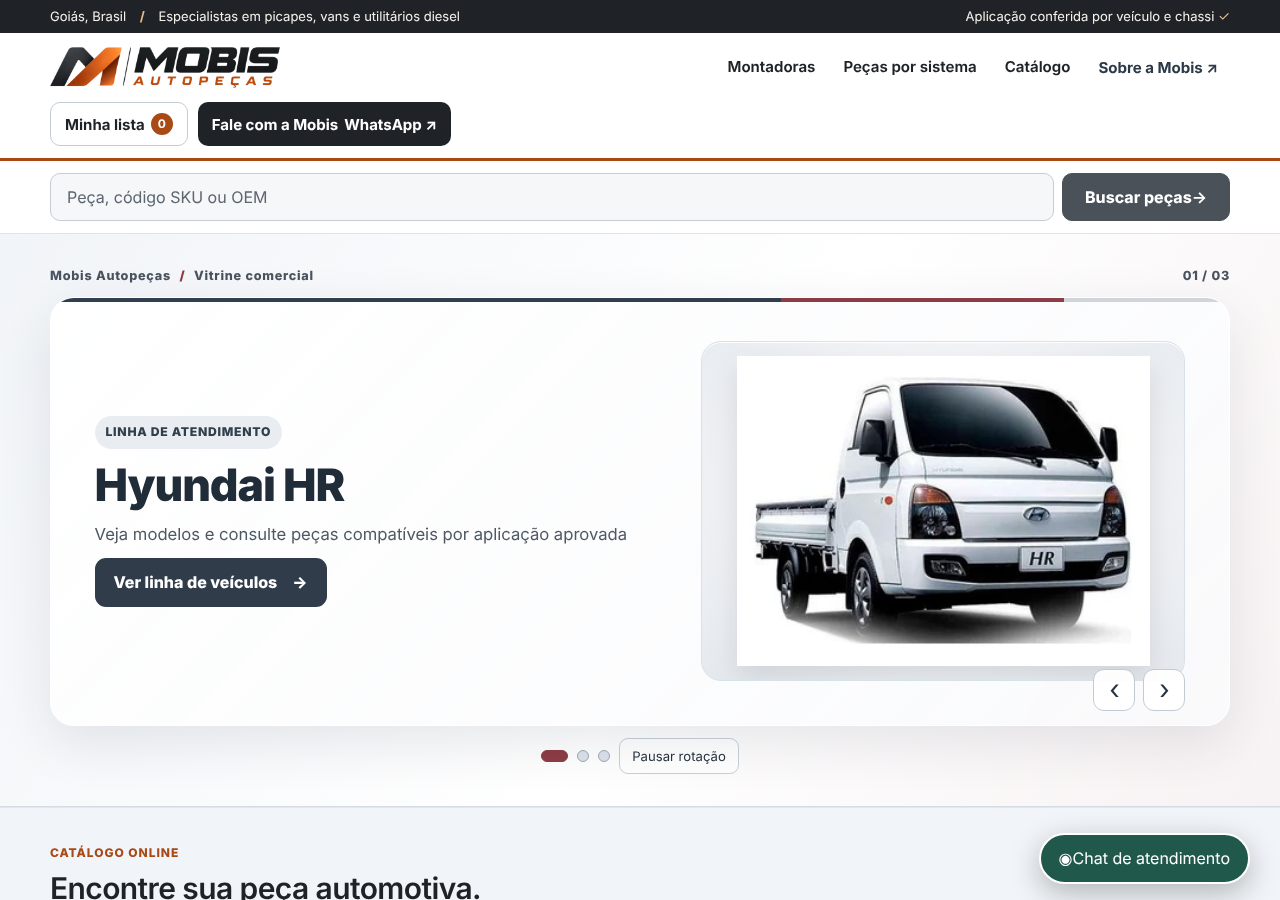
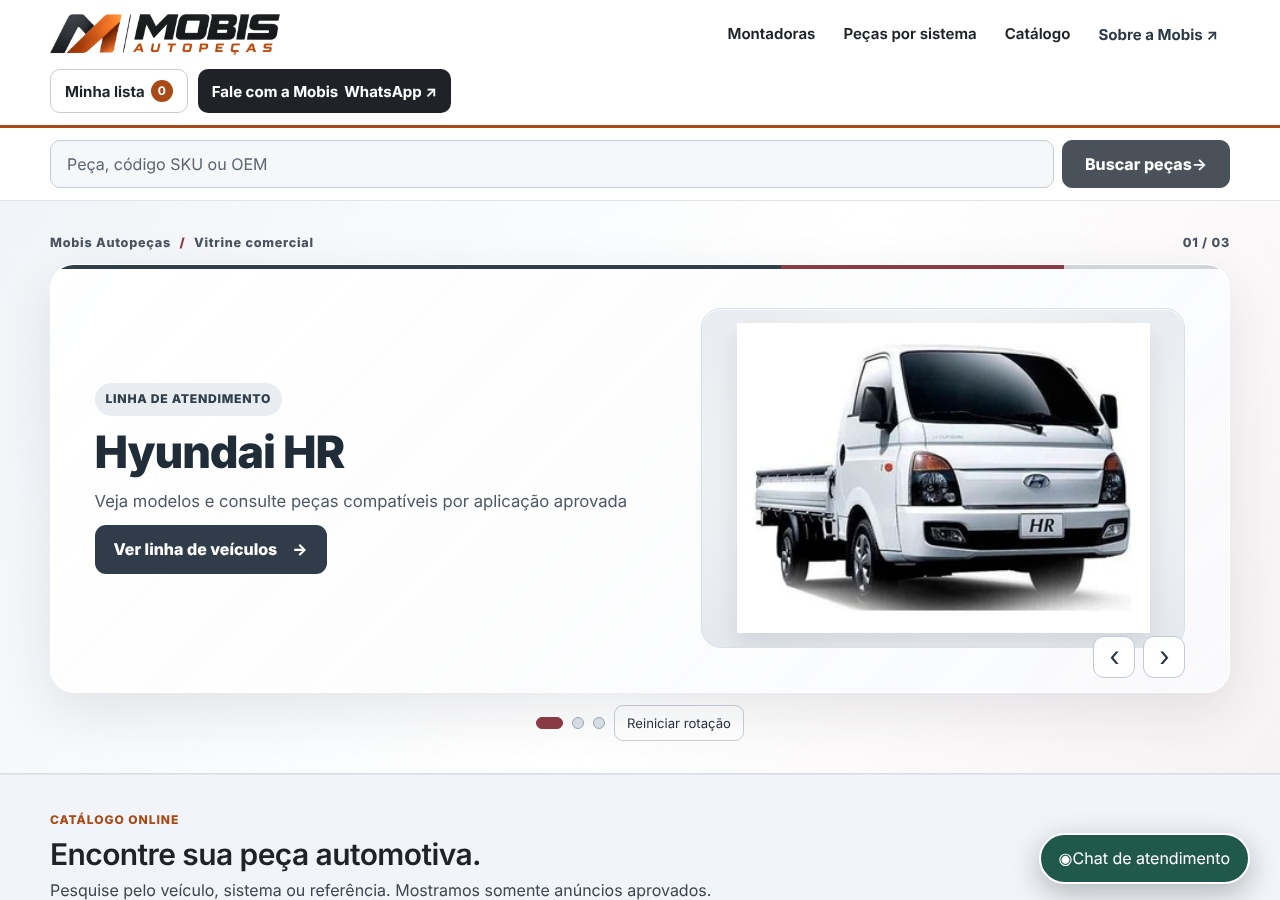
feat(vitrine-mobis): rodapé enxuto e informações institucionais em página própria
- Rodapé Mobis reduzido a navegação, WhatsApp e direitos; textos de políticas e identificação saem da vitrine.
- Nova aba 'Como consultar' em 'Sobre, contato e localização' com as regras de consulta.
- Remove micro-faixa institucional e texto longo acima do catálogo; cada bloco mantém título e subtítulo.
- Cartões de produto com uma linha de orientação.
- Rodapé genérico (RodapeLoja) de outras lojas permanece inalterado.

Claude-Session: https://claude.ai/code/session_01YDBbaxa8dct6ByfYepcxm1

diff --git a/painel/src/paginas/LojaMobisNova.tsx b/painel/src/paginas/LojaMobisNova.tsx
@@ -2,7 +2,8 @@ import { Fragment, useEffect, useMemo, useState, type CSSProperties, type FormEv
 import { EmpresaMobis } from "../componentes/EmpresaMobis.tsx";
 import { SUPABASE_URL, SUPABASE_CHAVE_PUBLICAVEL } from "../config.ts";
 import { IconePeca } from "../componentes/IconePeca.tsx";
-import { RodapeLoja, type PoliticasLojaPublicas } from "../componentes/RodapeLoja.tsx";
+import { RodapeMobisEnxuto } from "../componentes/RodapeMobisEnxuto.tsx";
+import type { PoliticasLojaPublicas } from "../componentes/RodapeLoja.tsx";
 import { ChatClienteLoja } from "../componentes/ChatClienteLoja.tsx";
 import { linkWhatsAppPublico } from "../lib/publicoLoja.ts";
 import { BlocoMontadorasMobis, BlocoTaxonomiaMobis } from "../componentes/BlocosCatalogoMobis.tsx";
@@ -228,21 +229,19 @@ export function LojaMobisNova({slug,contexto}:{slug:string;contexto?:{tipo:"veic
                 </div>
               : p.descricao&&<p>{p.descricao.slice(0,105)}</p>}
             <strong>Preço sob consulta</strong>
-            <p>Catálogo · aplicação, preço e disponibilidade confirmados pela equipe.</p>
+            <p>Confirme aplicação e disponibilidade.</p>
             <div>{p.whatsapp&&<a href={p.whatsapp} target="_blank" rel="noopener noreferrer">Consultar no WhatsApp ↗</a>}
               {!p.consulta_previa&&<a href={"#/p/mobis/"+encodeURIComponent(p.sku)} target="_blank" rel="noopener noreferrer">Abrir ficha em nova aba ↗</a>}
               <button disabled={lista.some(x=>x.sku===p.sku)} onClick={()=>adicionar(p)}>{lista.some(x=>x.sku===p.sku)?"Na lista":"Adicionar à lista +"}</button></div>
           </div>
         </article>)}</div>}
         {dados&&paginas>1&&<nav className="m2-paginas" aria-label="Páginas de produtos"><button disabled={f.pagina<=1} onClick={()=>setF({...f,pagina:f.pagina-1})}>Anterior</button><span>{f.pagina} / {paginas}</span><button disabled={f.pagina>=paginas} onClick={()=>setF({...f,pagina:f.pagina+1})}>Próxima</button></nav>}
-        <p className="m2-legenda">Preços, aplicação e disponibilidade devem ser confirmados antes da compra. A lista não reserva estoque nem cria pedido.</p>
       </section>
     </>,
     empresa: null,
   };
   return <div className="mobis-v2 m4" id="m2-topo" data-mobis-layout="aprovado-v2" data-layout-versionado="true" data-mobis-palette="branco-gelo" data-mobis-visual="claro-v4" data-paleta-publicada={coresPublicas?"sim":"nao"} style={coresPublicas?variaveisPaletaMobis(coresPublicas) as CSSProperties:undefined}>
     <div data-bloco="cabecalho">
-    <div className="m2-micro"><div className="m2-wrap"><span>Goiás, Brasil <b>/</b> Especialistas em picapes, vans e utilitários diesel</span><span>Aplicação conferida por veículo e chassi <em>✓</em></span></div></div>
     <header className="m2-header"><div className="m2-wrap">
       <a className="m2-brand" href="#/loja/mobis" aria-label="MOBIS Autopeças - início" onClick={()=>window.scrollTo({top:0,behavior:"smooth"})}>
         <img src={logoMobis} width={720} height={128} alt="MOBIS Autopeças"/>
@@ -267,19 +266,19 @@ export function LojaMobisNova({slug,contexto}:{slug:string;contexto?:{tipo:"veic
       <section id="m2-atendimento" className="m2-atendimento">
         {consultaModelo&&<div className="m2-wrap"><p className="m4-consulta-aviso" role="status">Para {consultaModelo}, ainda não há aplicação homologada nesta lista. Nossa equipe pode consultar a referência e confirmar a peça pelo chassi.</p></div>}
         <div className="m2-wrap m2-atendimento-grid">
-        <div><span className="m2-kicker">CONVERSA DIGITAL · ESCOLHA COM CUIDADO</span><h2>Vamos encontrar a sua peça.</h2><p>Um mesmo modelo pode usar peças diferentes conforme motor, ano e versão. Envie essas informações para uma consulta mais precisa.</p><div className="m2-conselho">✓ A equipe confere os detalhes antes de você comprar.</div></div>
+        <div><span className="m2-kicker">ATENDIMENTO</span><h2>Vamos encontrar a sua peça.</h2><p>Um mesmo modelo pode usar peças diferentes conforme motor, ano e versão.</p><a href="#/loja/mobis/empresa">Como consultar ↗</a></div>
         <div className="m2-contato-form"><small>CONSULTA DE PEÇAS</small><h3>Conte o que você procura</h3><p>Use os filtros acima ou monte sua lista para compartilhar com o atendimento.</p><button onClick={()=>para("m2-lista")}>Minha lista de peças ({lista.length})</button>{whatsapp&&<a href={whatsapp} target="_blank" rel="noopener noreferrer">Continuar no WhatsApp ↗</a>}<small>Você poderá revisar a mensagem antes de enviá-la.</small></div>
       </div></section>
       <section className="m2-wrap m2-secao m2-lista" id="m2-lista" aria-label="Lista de consulta">
-        <div className="m2-cab-secao"><div><span className="m2-kicker">CONSULTA, NÃO PEDIDO</span><h2>Minha lista de peças</h2></div><span>{lista.length}/10</span></div>
+        <div className="m2-cab-secao"><div><span className="m2-kicker">CONSULTA, NÃO PEDIDO</span><h2>Minha lista de peças</h2><p>Monte até 10 peças e envie para a equipe confirmar.</p></div><span>{lista.length}/10</span></div>
         {aviso&&<p role="status">{aviso}</p>}
         {lista.length===0?<p>Nenhuma peça selecionada. Utilize os botões do catálogo.</p>:<ul>{lista.map(x=><li key={x.sku}><span>{x.nome}<small>SKU: {x.sku}</small></span><button onClick={()=>setLista(v=>v.filter(p=>p.sku!==x.sku))}>Retirar</button></li>)}</ul>}
         {lista.length>0&&<div>{whatsapp&&<a href={whatsapp} target="_blank" rel="noopener noreferrer">Consultar no WhatsApp ↗</a>}<button onClick={()=>{setLista([]);setAviso("")}}>Limpar lista</button></div>}
-        <p>Não informe CPF, chassi completo, senha ou dados bancários no chat. A lista é só consulta e não conclui compra.</p>
+        <p className="m2-legenda">Não envie CPF, chassi completo ou dados bancários. <a href="#/loja/mobis/empresa">Como consultar</a></p>
       </section>
       </>}
     </main>
-    <RodapeLoja nome={dados?.loja.nome??"Mobis Autopeças"} slug="mobis" whatsapp={dados?.loja.whatsapp} politicas={dados?.politicas} ultima={dados?.produtos.map(x=>x.atualizado_em).filter(Boolean).sort().at(-1)} secoes={{catalogo:"m2-catalogo",veiculo:"m2-montadoras",categoria:"m2-taxonomia"}}/>
+    <RodapeMobisEnxuto nome={dados?.loja.nome??"Mobis Autopeças"} whatsapp={dados?.loja.whatsapp}/>
     <ChatClienteLoja nome={dados?.loja.nome??"Mobis Autopeças"} whatsapp={dados?.loja.whatsapp}/>
   </div>;
 }

diff --git a/painel/src/componentes/EmpresaMobis.tsx b/painel/src/componentes/EmpresaMobis.tsx
@@ -5,7 +5,7 @@ import type { PoliticasLojaPublicas } from "./RodapeLoja.tsx";
 export function EmpresaMobis({whatsapp,politicas}:{
   whatsapp:string|null;politicas?:PoliticasLojaPublicas|null;
 }) {
-  const [aba,setAba]=useState<"sobre"|"onde">("sobre");
+  const [aba,setAba]=useState<"sobre"|"onde"|"consulta">("sobre");
   const [mapa,setMapa]=useState(false);
   const endereco=politicas?.endereco?.trim()||"";
   const mapaUrl=endereco?"https://www.google.com/maps/search/?api=1&query="+encodeURIComponent(endereco):null;
@@ -17,12 +17,24 @@ export function EmpresaMobis({whatsapp,politicas}:{
     <div className="m2-empresa-abas" role="tablist" aria-label="Informações da empresa">
       <button type="button" role="tab" id="m2-aba-sobre" aria-selected={aba==="sobre"} aria-controls="m2-painel-sobre" onClick={()=>setAba("sobre")}>Nossa atuação</button>
       <button type="button" role="tab" id="m2-aba-onde" aria-selected={aba==="onde"} aria-controls="m2-painel-onde" onClick={()=>setAba("onde")}>Contato e localização</button>
+      <button type="button" role="tab" id="m2-aba-consulta" aria-selected={aba==="consulta"} aria-controls="m2-painel-consulta" onClick={()=>setAba("consulta")}>Como consultar</button>
     </div>
     {aba==="sobre"&&<div role="tabpanel" id="m2-painel-sobre" aria-labelledby="m2-aba-sobre" className="m2-empresa-painel">
       <h2>Autopeças para quem trabalha com utilitários</h2>
       <p>Atendimento especializado para localizar a peça pelo modelo, motorização e referência. A compatibilidade é conferida antes da venda.</p>
       <p>A MOBIS AUTOPEÇAS é independente e não integra montadoras ou concessionárias. As marcas de veículos são usadas para identificar aplicações, sem representar vínculo ou endosso.</p>
       {whatsapp&&<a className="m2-empresa-cta" href={whatsapp} target="_blank" rel="noopener noreferrer">Falar com a Mobis no WhatsApp ↗</a>}
+    </div>}
+    {aba==="consulta"&&<div role="tabpanel" id="m2-painel-consulta" aria-labelledby="m2-aba-consulta" className="m2-empresa-painel">
+      <h2>Como consultar uma peça</h2>
+      <ul>
+        <li>Informe montadora, modelo, ano, motor e o código da peça, se tiver.</li>
+        <li>A compatibilidade é confirmada por chassi e versão antes da venda.</li>
+        <li>Preço, disponibilidade e prazo são confirmados pela equipe.</li>
+        <li>A lista de peças é só uma consulta: não reserva estoque e não cria pedido.</li>
+        <li>Não envie CPF, chassi completo, senha ou dados bancários.</li>
+      </ul>
+      {whatsapp&&<a className="m2-empresa-cta" href={whatsapp} target="_blank" rel="noopener noreferrer">Consultar a equipe no WhatsApp ↗</a>}
     </div>}
     {aba==="onde"&&<div role="tabpanel" id="m2-painel-onde" aria-labelledby="m2-aba-onde" className="m2-empresa-painel">
       <h2>Dados de atendimento e localização</h2>

diff --git a/painel/src/componentes/RodapeMobisEnxuto.tsx b/painel/src/componentes/RodapeMobisEnxuto.tsx
@@ -1,0 +1,24 @@
+import { linkWhatsAppPublico } from "../lib/publicoLoja.ts";
+import "./rodape-enxuto-mobis.css";
+
+/** Rodapé enxuto da vitrine Mobis: navegação e contato. Textos institucionais, políticas e identificação ficam na página "Sobre a Mobis". */
+export function RodapeMobisEnxuto({ nome, whatsapp }: { nome: string; whatsapp?: string | null }) {
+  const ano = new Date().getFullYear();
+  const wa = linkWhatsAppPublico(whatsapp, "Olá! Vim pelo site " + nome + " e gostaria de falar com um vendedor.");
+  return (
+    <footer id="m2-privacidade" data-bloco="rodape" className="m4-rodape-enxuto" aria-label="Rodapé da loja">
+      <div className="m4-rodape-linha">
+        <strong>{nome}</strong>
+        <nav aria-label="Atalhos">
+          <a href="#/loja/mobis">Catálogo</a>
+          <a href="#/loja/mobis/empresa">Sobre, contato e como consultar</a>
+        </nav>
+        {wa && <a className="m4-rodape-wa" href={wa} target="_blank" rel="noopener noreferrer">Falar no WhatsApp ↗</a>}
+      </div>
+      <div className="m4-rodape-faixa">
+        <span>© {ano} {nome}</span>
+        <a href="#m2-topo">Voltar ao topo ↑</a>
+      </div>
+    </footer>
+  );
+}

diff --git a/painel/src/componentes/rodape-enxuto-mobis.css b/painel/src/componentes/rodape-enxuto-mobis.css
@@ -1,0 +1,11 @@
+/* Rodapé enxuto da vitrine Mobis: uma linha de navegação e uma faixa de direitos. Contraste AA sobre o fundo claro. */
+.m4-rodape-enxuto{margin-top:32px;border-top:1px solid #d9d2c7;background:#fbfaf7;color:#2b2f35;font-size:.92rem}
+.m4-rodape-linha{max-width:1200px;margin:0 auto;padding:18px 16px;display:flex;flex-wrap:wrap;gap:12px 24px;align-items:center;justify-content:space-between}
+.m4-rodape-linha strong{font-size:1rem}
+.m4-rodape-linha nav{display:flex;flex-wrap:wrap;gap:8px 18px}
+.m4-rodape-linha a{color:#7a2f20;text-decoration:underline;text-underline-offset:3px}
+.m4-rodape-wa{font-weight:700;padding:8px 14px;border:1px solid #7a2f20;border-radius:8px;text-decoration:none!important}
+.m4-rodape-linha a:focus-visible,.m4-rodape-faixa a:focus-visible{outline:2px solid #7a2f20;outline-offset:2px}
+.m4-rodape-faixa{border-top:1px solid #e7e1d7;padding:10px 16px;display:flex;justify-content:space-between;flex-wrap:wrap;gap:8px;max-width:1200px;margin:0 auto;color:#4a525b;font-size:.85rem}
+.m4-rodape-faixa a{color:#7a2f20}
+@media (max-width:640px){.m4-rodape-linha{flex-direction:column;align-items:flex-start}.m4-rodape-faixa{padding-bottom:84px}}
